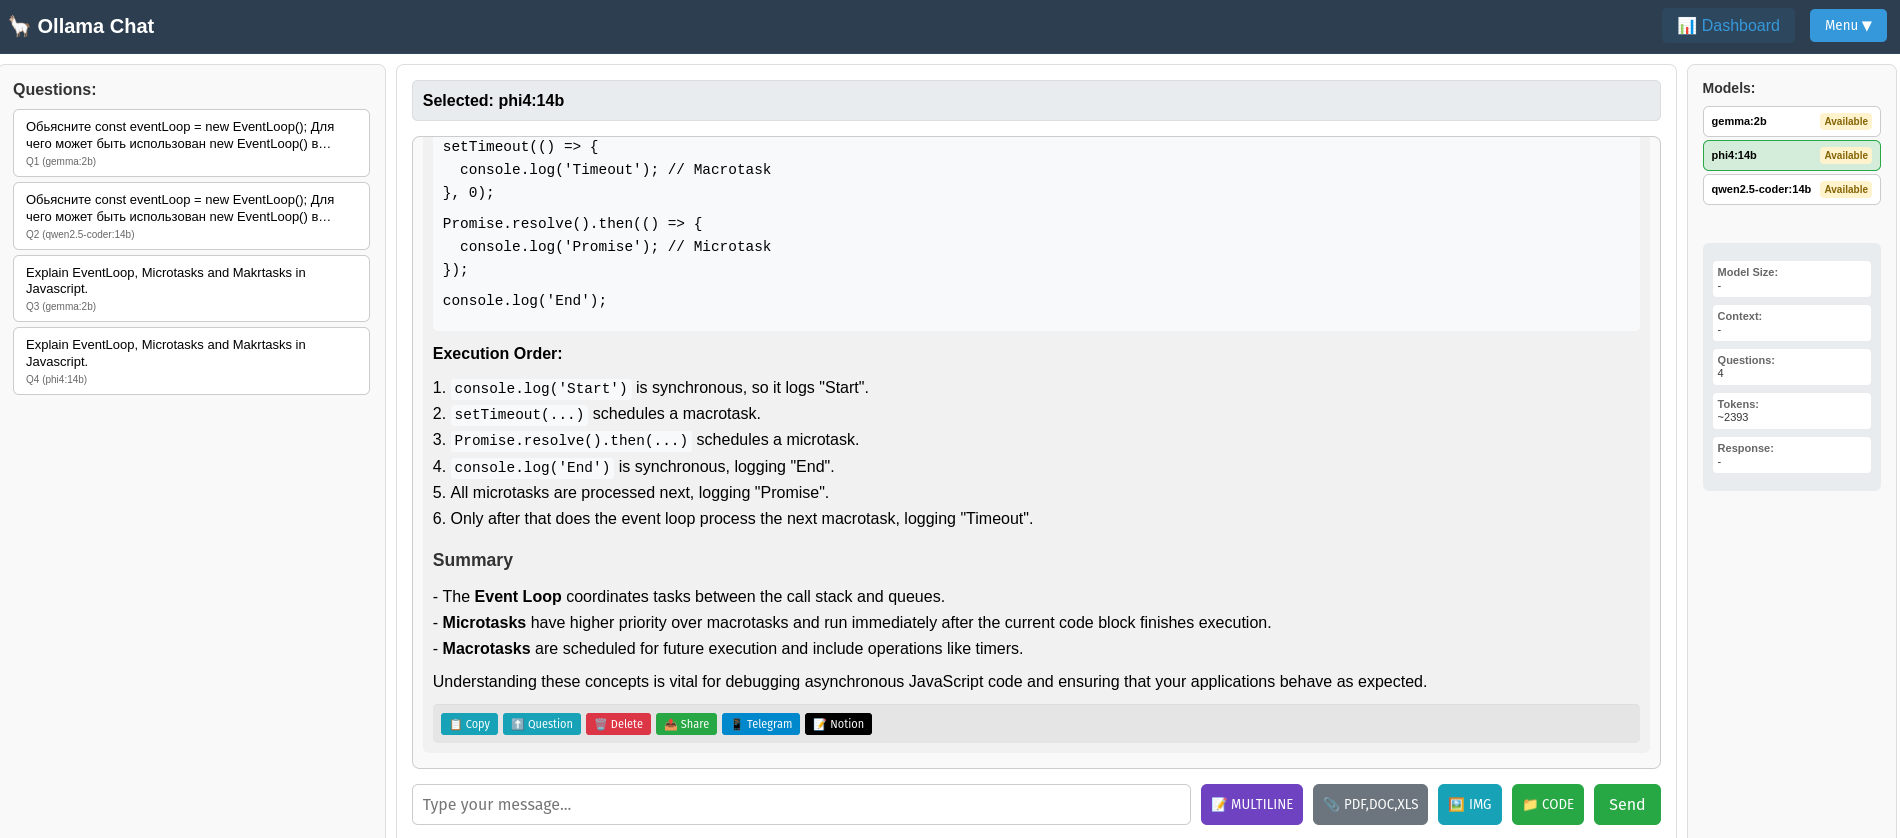
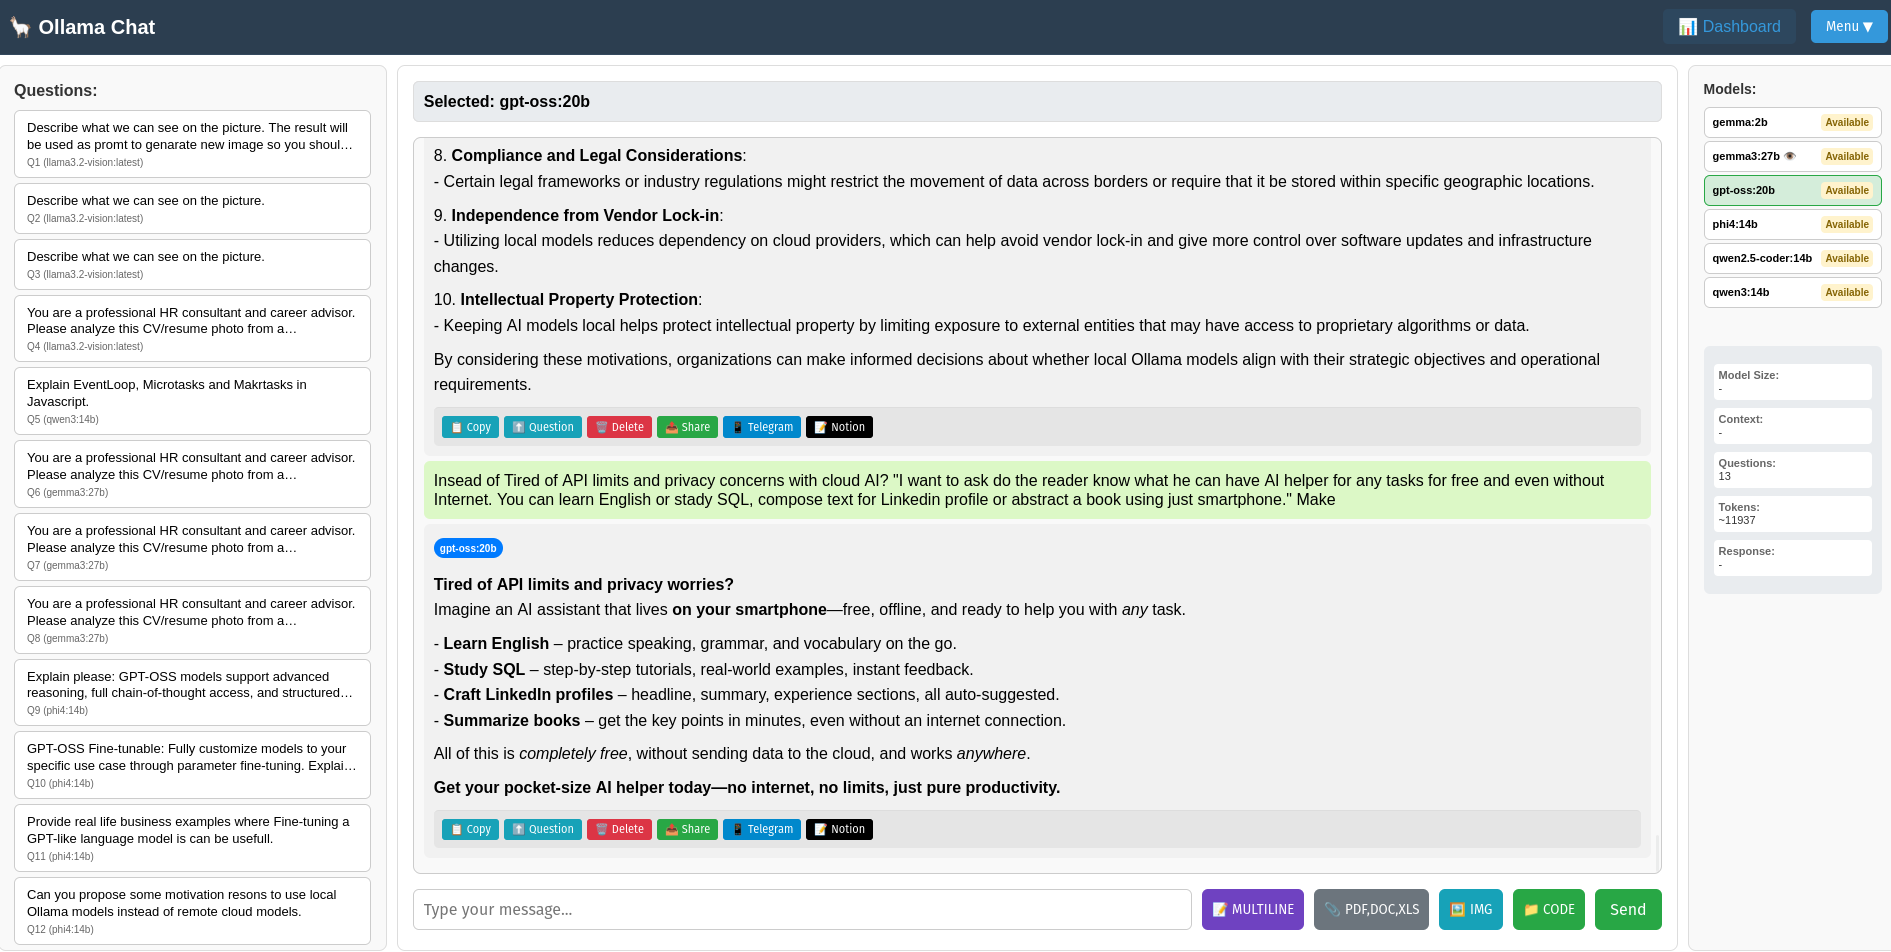
Fix vision model detection and add visual indicators
🔧 Docker & Compatibility:
- Updated Ollama Docker image to v0.12.3 for newer model support
- Fixed gemma3:27b and other newer model compatibility issues

👁 Vision Model Improvements:
- Added eye icon (👁) to vision models in Models list
- Fixed precise vision model detection (gemma3 ✅, gemma/gemma2 ❌)
- Updated client/server-side validation for image uploads
- Fixed gemma3:27b image processing capability

🏷 Enhanced Navigation:
- Added model names to Questions panel (Q1 (phi4:latest), Q2 (gemma3:27b))
- Improved conversation context and navigation experience

📚 Documentation:
- Updated README with vision model indicators
- Clarified gemma3 vs gemma/gemma2 capabilities
- Added Docker version update information

diff --git a/public/index.html b/public/index.html
@@ -731,7 +731,7 @@
           ⚠ Large documents may be truncated to fit the model's context window
         </div>
         <div id="vision-warning" style="margin-top: 5px; font-size: 11px; color: #721c24; background: #f8d7da; padding: 5px; border-radius: 3px; display: none;">
-          ⚠ Images require vision models (llama3.2-vision, llava, etc.)
+          ⚠ Images require vision models (llama3.2-vision, llava, gemma3, etc.)
         </div>
         <div id="code-warning" style="margin-top: 5px; font-size: 11px; color: #0c5460; background: #d1ecf1; padding: 5px; border-radius: 3px; display: none;">
           💡 Code files will be analyzed for structure, patterns, and recommendations
@@ -1163,9 +1163,13 @@
         const statusClass = model.status === 'running' ? 'status-running' : 'status-available';
         const statusText = model.status === 'running' ? 'Running' : 'Available';
         
+        // Check if it's a vision model
+        const isVisionModel = model.name.includes('vision') || model.name.includes('llava') || model.name.includes('gemma3');
+        const visionIcon = isVisionModel ? ' 👁' : '';
+        
         modelDiv.innerHTML = `
           <div>
-            <strong>${model.name}</strong>
+            <strong>${model.name}${visionIcon}</strong>
           </div>
           <span class="model-status ${statusClass}">${statusText}</span>
         `;
@@ -1902,7 +1906,7 @@
         codePreview.textContent = ''; // Clear code preview
         
         // Show warning if not a vision model
-        const isVisionModel = selectedModel && (selectedModel.includes('vision') || selectedModel.includes('llava'));
+        const isVisionModel = selectedModel && (selectedModel.includes('vision') || selectedModel.includes('llava') || selectedModel.includes('gemma3'));
         if (!isVisionModel) {
           visionWarning.style.display = 'block';
         } else {

diff --git a/server.js b/server.js
@@ -178,7 +178,7 @@ app.get('/api/images/:imageId/:type', (req, res) => {
 
 function isSpecialModel(modelName) {
   const embedModels = ['nomic-embed-text', 'embed'];
-  const visionModels = ['vision', 'llava'];
+  const visionModels = ['vision', 'llava', 'gemma3'];
   
   const isEmbed = embedModels.some(type => modelName.includes(type));
   const isVision = visionModels.some(type => modelName.includes(type));
@@ -330,7 +330,7 @@ app.post('/api/chat', upload.fields([{ name: 'file', maxCount: 1 }, { name: 'cod
       // Handle image files for vision models
       if (file.mimetype.startsWith('image/')) {
         if (!isVision) {
-          return res.status(400).json({ error: 'Images require vision models (llama3.2-vision, llava, etc.)' });
+          return res.status(400).json({ error: 'Images require vision models (llama3.2-vision, llava, gemma3, etc.)' });
         }
         
         // Save image files and get URLs

diff --git a/README.md b/README.md
@@ -15,6 +15,7 @@ A modern web chat interface for Ollama models with advanced model management and
 ### Model Management
 - Automatic detection of installed Ollama models
 - Real-time status monitoring (Running/Available)
+- Visual indicators for model types (vision models marked with 👁)
 - Easy model switching without restart
 - Support for any Ollama model
 
@@ -61,7 +62,7 @@ A modern web chat interface for Ollama models with advanced model management and
 - Support for JPG, PNG, GIF, BMP, WEBP formats
 - Visual recognition and image reasoning
 - Image captioning and question answering
-- Compatible with llama3.2-vision, llava, and other vision models
+- Compatible with llama3.2-vision, llava, gemma3, and other vision models
 - Professional message layout with image thumbnails and filename display
 - Click thumbnails to view full-size images in modal
 
@@ -198,11 +199,11 @@ A modern web chat interface for Ollama models with advanced model management and
 
 ### Model Support
 - **Text models**: Full chat support with document and code processing (phi4, llama, qwen, etc.)
-- **Vision models**: Image analysis and visual reasoning (llama3.2-vision, llava, etc.)
+- **Vision models**: Image analysis and visual reasoning (llama3.2-vision, llava, gemma3, etc.) - marked with 👁 eye icon
 - **Embedding models**: Detected and marked as unavailable for chat
 - **Document analysis**: All text models can process PDF, DOC, DOCX, XLS, XLSX, CSV files
 - **Code analysis**: All text models can analyze multiple code files for reviews and recommendations
-- **Image analysis**: Vision models can analyze JPG, PNG, GIF, BMP, WEBP images
+- **Image analysis**: Vision models (llama3.2-vision, llava, gemma3) can analyze JPG, PNG, GIF, BMP, WEBP images
 - **Web content**: All text models can analyze content from URLs automatically
 - **Alphabetical sorting**: Models displayed in alphabetical order for easy navigation
 
